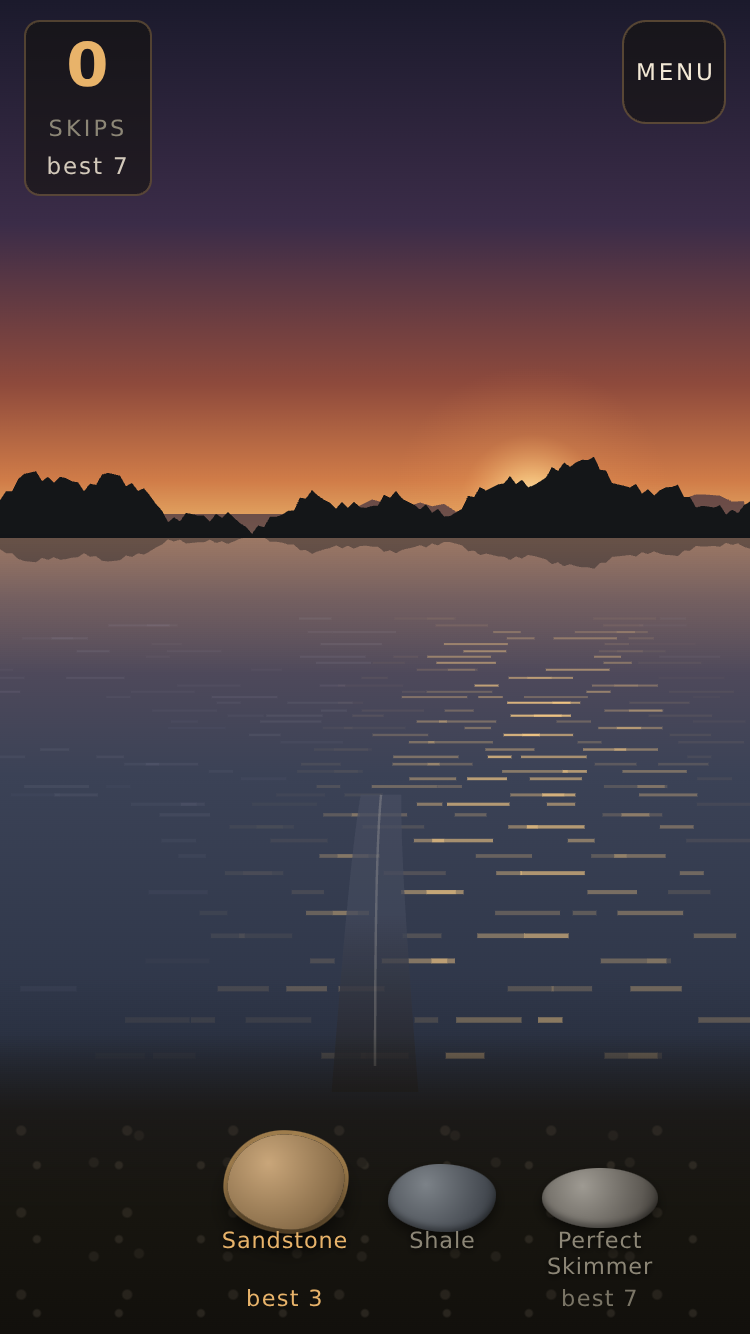
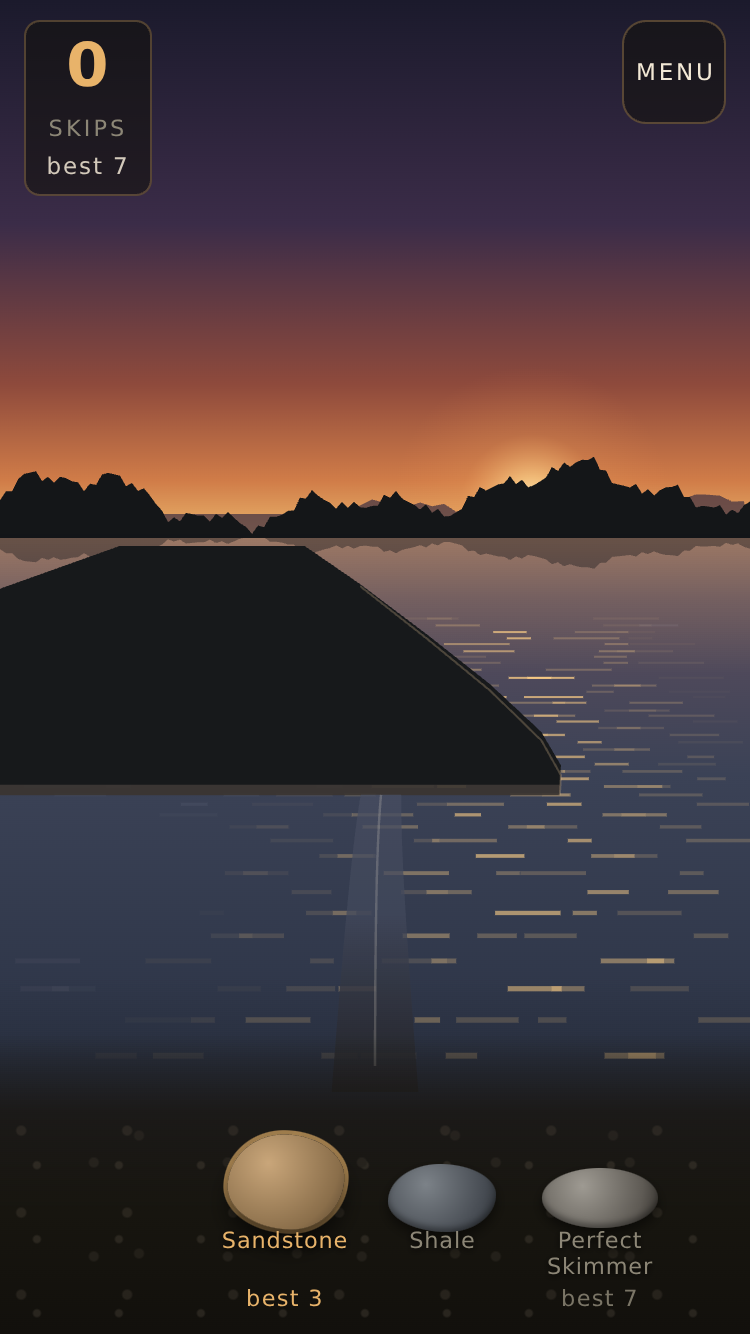
Gerplunk P2 step 1b: the point and the spit, the bay mouth, the beached click
drawLand draws the point as a tongue whose tip sits on the throw line at
LEE_REACH_M exactly when the yaw reaches minus FACE_DEG, sweeping back left to
the treeline; bayOpen thins the near trees right of the bay's world edge so a
turn right opens the far shore. A beached stone clicks on stone instead of
plunking. Shot p1-shore, p2-lee, p2-bay three times and opened each: the first
draw was a dock, the second crowded the seam early, the third reads. Lint,
sim 157, layout, audio green.

Claude-Session: https://claude.ai/code/session_01CohA1CK6e5eCWUdrKWPpuM

diff --git a/satellites/gerplunk/index.html b/satellites/gerplunk/index.html
@@ -1445,6 +1445,22 @@ var AUDIO = (function () {
     o.start(at); o.stop(at + 0.13);
     return o;
   }
+  /* a stone that runs up on the spit does not plunk, it clicks on stone: a
+     short bright knock, the same [osc, noise] shape as the plunk so keep() holds it */
+  function click(ctx, out, at) {
+    var o = ctx.createOscillator(), g = ctx.createGain();
+    o.type = 'triangle'; o.frequency.setValueAtTime(1400, at); o.frequency.exponentialRampToValueAtTime(700, at + 0.05);
+    g.gain.setValueAtTime(0.0001, at); g.gain.exponentialRampToValueAtTime(0.5, at + 0.004); g.gain.exponentialRampToValueAtTime(0.0001, at + 0.09);
+    o.connect(g); g.connect(out); o.start(at); o.stop(at + 0.1);
+    var n = Math.floor(ctx.sampleRate * 0.04), buf = ctx.createBuffer(1, n, ctx.sampleRate), d = buf.getChannelData(0), i;
+    for (i = 0; i < n; i++) d[i] = (Math.random() * 2 - 1) * (1 - i / n);
+    var src = ctx.createBufferSource(); src.buffer = buf;
+    var f = ctx.createBiquadFilter(); f.type = 'bandpass'; f.frequency.value = 3200; f.Q.value = 1.2;
+    var ng = ctx.createGain(); ng.gain.setValueAtTime(0.4, at); ng.gain.exponentialRampToValueAtTime(0.0001, at + 0.04);
+    src.connect(f); f.connect(ng); ng.connect(out); src.start(at); src.stop(at + 0.05);
+    return [o, src];
+  }
+  function sinkSound(ctx, out, at, res) { return res.ended === 'beached' ? click(ctx, out, at) : plunk(ctx, out, at); }
   function plunk(ctx, out, at) {
     var o = ctx.createOscillator(), g = ctx.createGain();
     o.type = 'sine'; o.frequency.setValueAtTime(150, at); o.frequency.exponentialRampToValueAtTime(95, at + 0.25);
@@ -1472,7 +1488,7 @@ var AUDIO = (function () {
     var out = octx.createGain(); out.gain.value = 0.8; out.connect(octx.destination);
     var t0 = 0.05, i;
     for (i = 0; i < res.events.length; i++) tick(octx, out, t0 + res.events[i].t, i);
-    plunk(octx, out, t0 + sinkTimeOf(res));
+    sinkSound(octx, out, t0 + sinkTimeOf(res), res);
     return octx.startRendering().then(function (buf) {
       var d = buf.getChannelData(0), peak = 0, j, k, sum, win = Math.floor(sr * 0.005), env = [];
       for (j = 0; j < d.length; j++) if (Math.abs(d[j]) > peak) peak = Math.abs(d[j]);
@@ -1562,7 +1578,7 @@ var AUDIO = (function () {
       cut();
       var t0 = ac.currentTime + 0.03, i, o;
       for (i = 0; i < res.events.length; i++) { o = tick(ac, master, t0 + res.events[i].t, i); keep(o, t0 + res.events[i].t + 0.13); ticks++; }
-      var ts = sinkTimeOf(res), pl = plunk(ac, master, t0 + ts);
+      var ts = sinkTimeOf(res), pl = sinkSound(ac, master, t0 + ts, res);
       keep(pl[0], t0 + ts + 0.45); keep(pl[1], t0 + ts + 0.11);
       return res.events.length;
     },
@@ -1609,6 +1625,40 @@ function drawSky(t) {
   CTX.fillStyle = 'rgba(255,240,205,0.95)'; CTX.beginPath(); CTX.arc(sx, sy, 9, 0, Math.PI * 2); CTX.fill();
   return sx;
 }
+/* THE LAND OF THE THREE FACES (D37). Neither piece pops in at the model's
+   twelve degree step; both sit in the world and slide with the turn so that
+   they cross the throw line exactly where the model says the face changes.
+   The bay mouth: right of this world coordinate the near trees fall away to a
+   low far shore, so turned twelve degrees right the opening starts at centre
+   and the water runs to the horizon. */
+function bayOpen(wx) {
+  var start = W / 2 + CONFIG.FACE_DEG * LAKE.TREE_PX_PER_DEG, d = wx - start;
+  return d <= 0 ? 1 : Math.max(0.12, 1 - d / 90);
+}
+/* the point and its spit, to the left: a tongue of land whose edge, in metres
+   of lateral, slides with the yaw and covers the throw line at LEE_REACH_M
+   once the yaw is twelve degrees left, which is where runThrow beaches. */
+function drawLand() {
+  var yaw = yawNow(), reach = CONFIG.LEE_REACH_M, cam = G.cam;
+  var edge = 0.4 - (yaw + CONFIG.FACE_DEG) * 1.2;
+  /* a point, not a pier: the tip is at the spit, the shore behind it sweeps
+     back LEFT into the distance until it meets the treeline at the horizon */
+  var pts = [[reach, edge - 60], [reach, edge], [reach + 2.5, edge + 0.9], [reach + 8, edge + 1.4], [reach + 20, edge + 0.4],
+    [reach + 45, edge - 3], [reach + 120, edge - 14], [reach + 600, edge - 90], [reach + 600, edge - 300]];
+  var i, p, top = [], rim = [];
+  for (i = 0; i < pts.length; i++) {
+    var rel = Math.max(0.3, pts[i][0] - cam);
+    top.push(proj(rel, pts[i][1], 0.16)); rim.push(proj(rel, pts[i][1], 0));
+  }
+  /* the wet edge first, then the land on top of it */
+  CTX.fillStyle = 'rgba(58,52,48,0.9)';
+  CTX.beginPath(); for (i = 0; i < rim.length; i++) { p = rim[i]; if (i) CTX.lineTo(p.x, p.y); else CTX.moveTo(p.x, p.y); } CTX.closePath(); CTX.fill();
+  CTX.fillStyle = '#17191B';
+  CTX.beginPath(); for (i = 0; i < top.length; i++) { p = top[i]; if (i) CTX.lineTo(p.x, p.y); else CTX.moveTo(p.x, p.y); } CTX.closePath(); CTX.fill();
+  /* a stony lip where the land meets the water */
+  CTX.strokeStyle = 'rgba(214,182,140,0.28)'; CTX.lineWidth = 1;
+  CTX.beginPath(); for (i = 1; i < 7; i++) { p = rim[i]; if (i > 1) CTX.lineTo(p.x, p.y); else CTX.moveTo(p.x, p.y); } CTX.stroke();
+}
 function drawTrees() {
   var hy = horizonY(), off = yawNow() * LAKE.TREE_PX_PER_DEG, x, seed = 3;
   /* the far bank, hazy, then the near trees, black */
@@ -1624,6 +1674,7 @@ function drawTrees() {
        save faces, so a turn has something to be measured against */
     var gap = Math.abs((x + off) - (W / 2 + 60));
     if (gap < 46) h *= 0.35 + 0.65 * (gap / 46);
+    h *= bayOpen(x + off);
     CTX.lineTo(x, hy - h);
   }
   CTX.lineTo(W, hy + 2); CTX.closePath(); CTX.fill();
@@ -1634,6 +1685,7 @@ function drawTrees() {
     var h2 = 16 + treeH(x + off, seed);
     var gap2 = Math.abs((x + off) - (W / 2 + 60));
     if (gap2 < 46) h2 *= 0.35 + 0.65 * (gap2 / 46);
+    h2 *= bayOpen(x + off);
     CTX.lineTo(x, hy + h2 * 0.45);
   }
   CTX.lineTo(W, hy); CTX.closePath(); CTX.fill();
@@ -2010,6 +2062,7 @@ function frame() {
   var sunX = drawSky(t);
   drawWater(t, sunX);
   drawTrees();
+  drawLand();
   /* the seam shows while the stone is in the hand: before the first throw,
      under a live thumb, and once the last throw's rings have gone */
   if (G.screen === 'lake' && (G.touch || !G.play || (G.play.sunk && G.rings.length === 0))) drawSeam();
